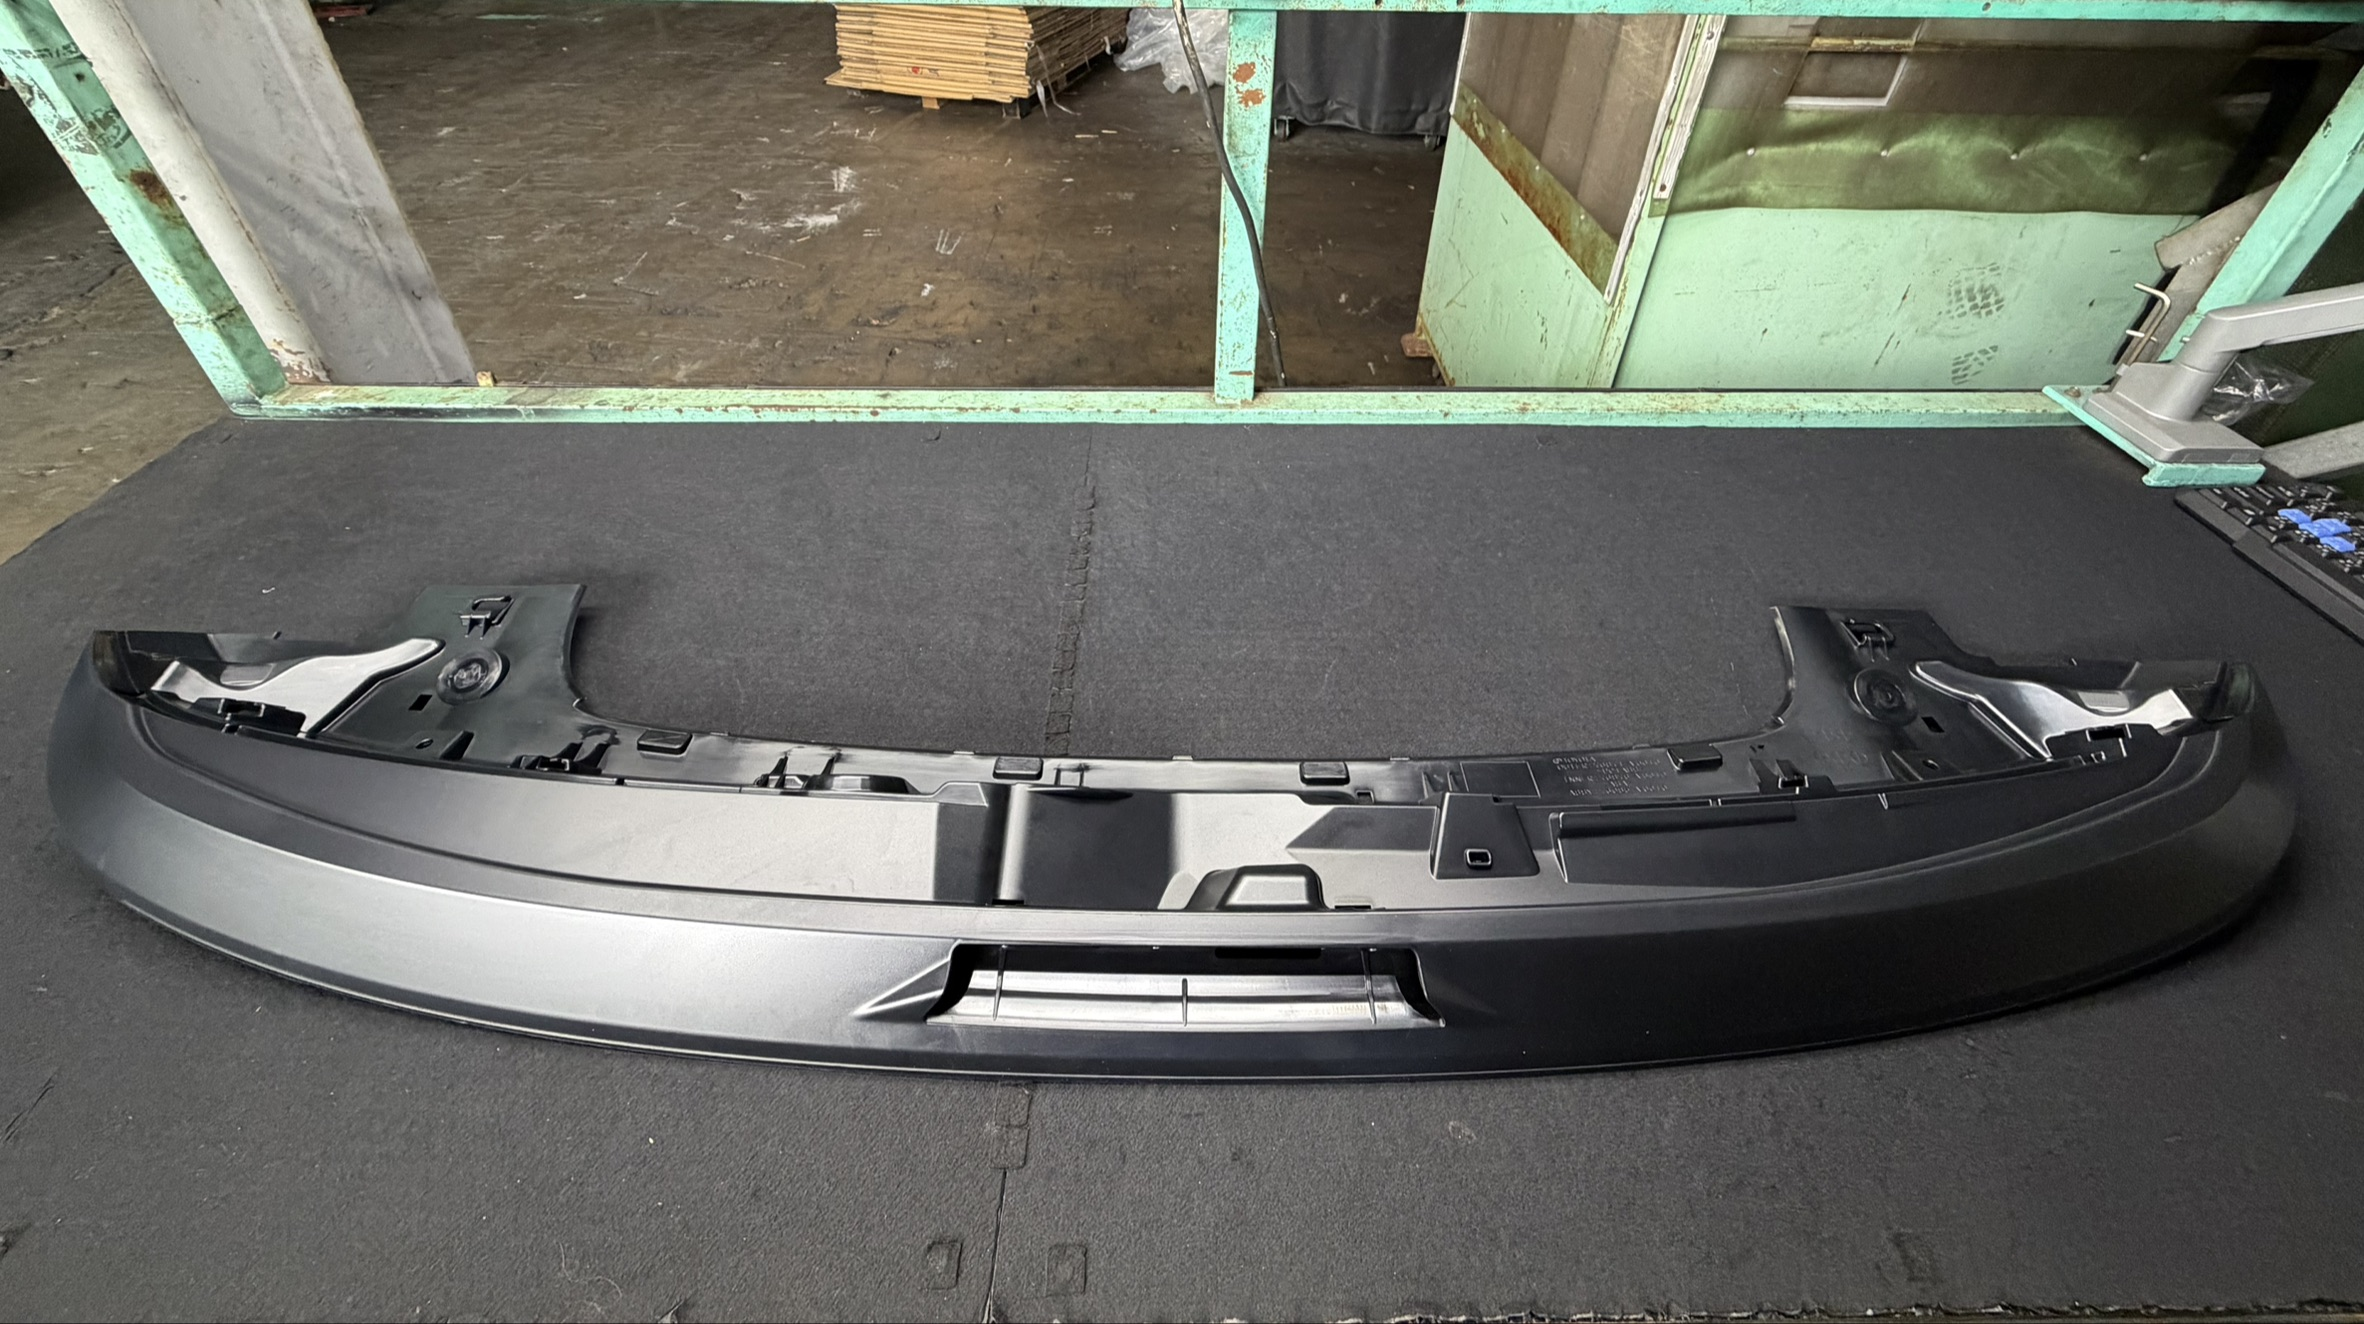
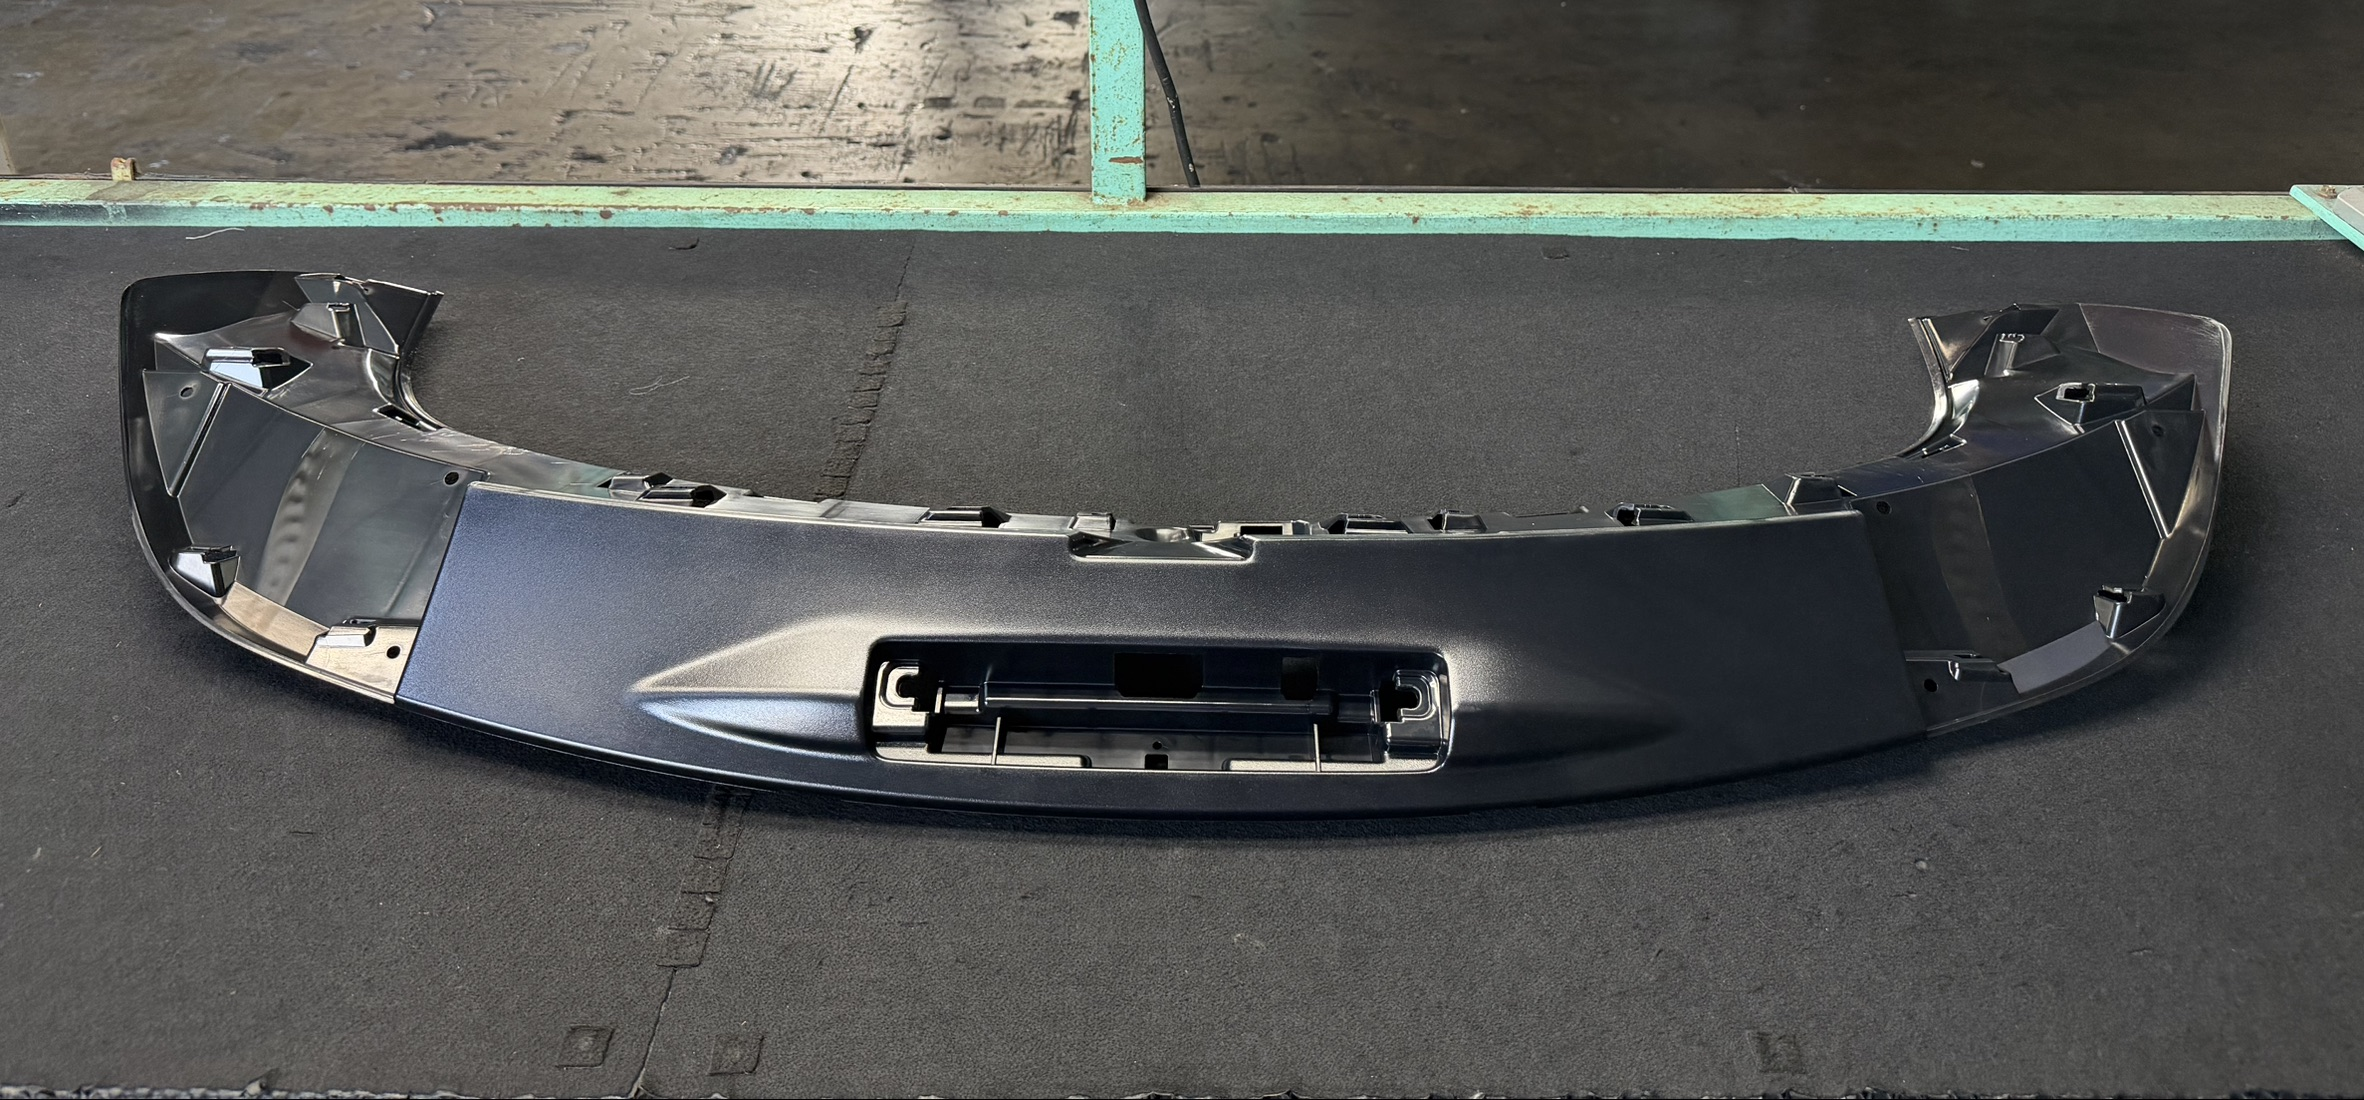
chore: update google apps script idle calculation and add product images

diff --git a/src/google_apps_script.js b/src/google_apps_script.js
@@ -1,9 +1,7 @@
-function doGet(e) {
-    // === 兩張表的 ID 都鎖在 GAS 內部，前端不需知道 ===
-    var PRODUCTS_SS_ID = '1YSOI1VPh4GBYkr7QVx60YOxtrfpC4JofuXOy_dyPHaQ'; // 產品資料表 (讀)
-    var RECORDS_SS_ID = '1xo4YhDuxh-wpstg7tmAqW4orB9aBheF1CUFzM1TDWKw';  // 組裝紀錄表 (寫)
-    // ==============================================
+const PRODUCTS_SS_ID = '1YSOI1VPh4GBYkr7QVx60YOxtrfpC4JofuXOy_dyPHaQ'; // 產品資料表 (讀)
+const RECORDS_SS_ID = '1xo4YhDuxh-wpstg7tmAqW4orB9aBheF1CUFzM1TDWKw';  // 組裝紀錄表 (寫)
 
+function doGet(e) {
     // action=records → 讀紀錄表；其他 → 讀產品資料表
     var ssId = (e.parameter.action === 'records') ? RECORDS_SS_ID : PRODUCTS_SS_ID;
 
@@ -242,13 +240,45 @@ function sendAdvancedSummaryEmail() {
   const missEmp = allEmp.filter(e => !Object.keys(statsByOperator).includes(e));
   
   // 計算異常空窗
+  const toMin = (t) => {
+    if (!t) return 0;
+    if (t instanceof Date) return t.getHours()*60 + t.getMinutes();
+    if (typeof t === 'number') return Math.round(t * 24 * 60);
+    const x = String(t).split(':').map(Number);
+    return x[0]*60 + x[1];
+  };
+
+  const WORK_START = 8 * 60;    // 08:00
+  const WORK_END   = 17 * 60;   // 17:00
+  const LUNCH_START = 12 * 60;  // 12:00
+  const LUNCH_END   = 13 * 60;  // 13:00
+
+  const fmt = (m) => `${String(Math.floor(m/60)).padStart(2,'0')}:${String(m%60).padStart(2,'0')}`;
+  const calcEffectiveGap = (start, end) => {
+    const cs = Math.max(start, WORK_START);
+    const ce = Math.min(end, WORK_END);
+    if (ce <= cs) return { gap: 0, cs, ce };
+    const lunch = Math.max(0, Math.min(ce, LUNCH_END) - Math.max(cs, LUNCH_START));
+    return { gap: (ce - cs) - lunch, cs, ce };
+  };
+
   let idles = [];
   Object.keys(statsByOperator).forEach(op => {
-    const recs = statsByOperator[op].recs.sort((a,b) => String(a.s).localeCompare(String(b.s)));
+    const recs = statsByOperator[op].recs.sort((a,b) => toMin(a.s) - toMin(b.s));
+
+    // 連續兩筆之間的空窗
     for (let i = 0; i < recs.length - 1; i++) {
         if (!recs[i].e || !recs[i+1].s) continue;
-        const gap = getTimeGapInMinutes(recs[i].e, recs[i+1].s);
-        if (gap > 60) idles.push(`${op} (${Math.floor(gap/60)}時${gap%60}分)`);
+        const { gap, cs, ce } = calcEffectiveGap(toMin(recs[i].e), toMin(recs[i+1].s));
+        if (gap > 60) idles.push(`${op} (${fmt(cs)} → ${fmt(ce)}，空窗 ${gap} 分鐘)`);
+    }
+
+    // 最後一筆到下班時間的空窗（偵測中途請假/早退）
+    // 只在最後一筆結束時間早於 17:00 時才檢查，避免與連續空窗重複計算
+    const last = recs[recs.length - 1];
+    if (last && last.e && toMin(last.e) < WORK_END) {
+        const { gap, cs, ce } = calcEffectiveGap(toMin(last.e), WORK_END);
+        if (gap > 60) idles.push(`${op} (${fmt(cs)} → ${fmt(ce)}，空窗 ${gap} 分鐘)`);
     }
   });
 
@@ -279,7 +309,7 @@ function sendAdvancedSummaryEmail() {
       <div style="background: #f8fafc; padding: 15px; border-radius: 8px; margin-top: 20px; font-size: 13.5px;">
         <h3 style="margin: 0 0 10px 0; color: #475569; font-size: 15px;">⚠ 異常監控</h3>
         <p style="margin:6px 0"><b>❗ 未上傳：</b> <span style="color:#ef4444;">${missEmp.join('、') || '無'}</span></p>
-        <p style="margin:6px 0"><b>❗ 超過1小時空窗：</b> <span style="color:#f59e0b;">${idles.join('、') || '無'}</span></p>
+        <p style="margin:6px 0"><b>❗ 超過1小時空窗：</b> ${idles.length === 0 ? '<span style="color:#f59e0b;">無</span>' : idles.map(i => `<br>&nbsp;&nbsp;• <span style="color:#f59e0b;">${i}</span>`).join('')}</p>
         <p style="margin:6px 0"><b>❓ 未指定項目時數：</b> 共 <b style="color:#334155;">${formatSeconds(unspecWork.totalTime)}</b></p>
       </div>
       
@@ -302,7 +332,16 @@ function formatSeconds(s) {
   const h = Math.floor(s/3600), m = Math.floor((s%3600)/60); 
   return h > 0 ? `${h}小時 ${m}分` : `${m}分鐘`; 
 }
-function getTimeGapInMinutes(e, s) { 
+function formatTimeHM(t) {
+  if (!t) return '?';
+  if (t instanceof Date) return Utilities.formatDate(t, 'GMT+8', 'HH:mm');
+  if (typeof t === 'number') {
+    const totalMin = Math.round(t * 24 * 60);
+    return `${String(Math.floor(totalMin/60)).padStart(2,'0')}:${String(totalMin%60).padStart(2,'0')}`;
+  }
+  return String(t).substring(0, 5);
+}
+function getTimeGapInMinutes(e, s) {
   if(!e || !s) return 0; 
   if(e instanceof Date && s instanceof Date) return (s.getTime() - e.getTime()) / 60000;
   const p = (t) => { 
